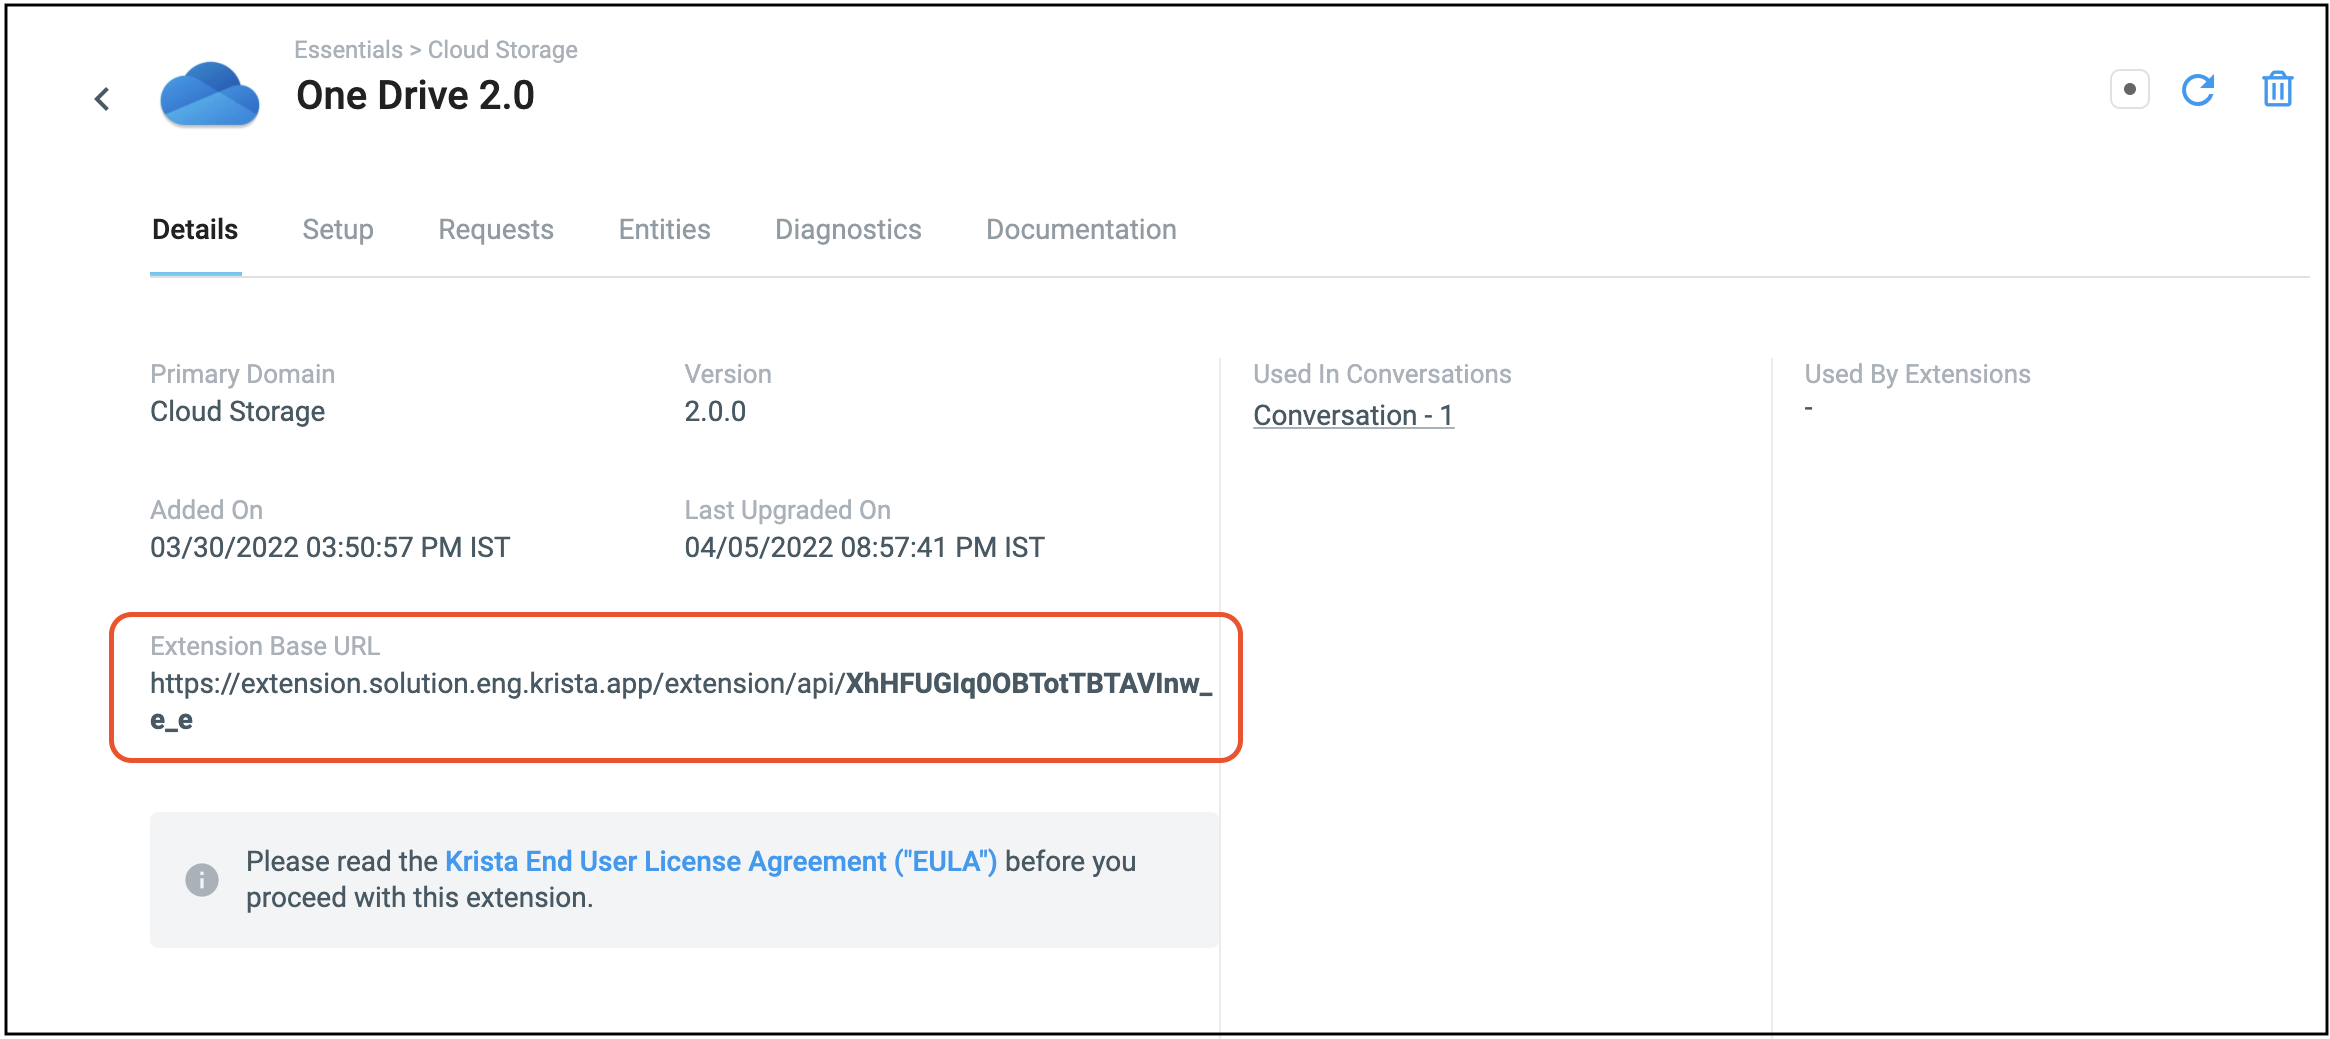
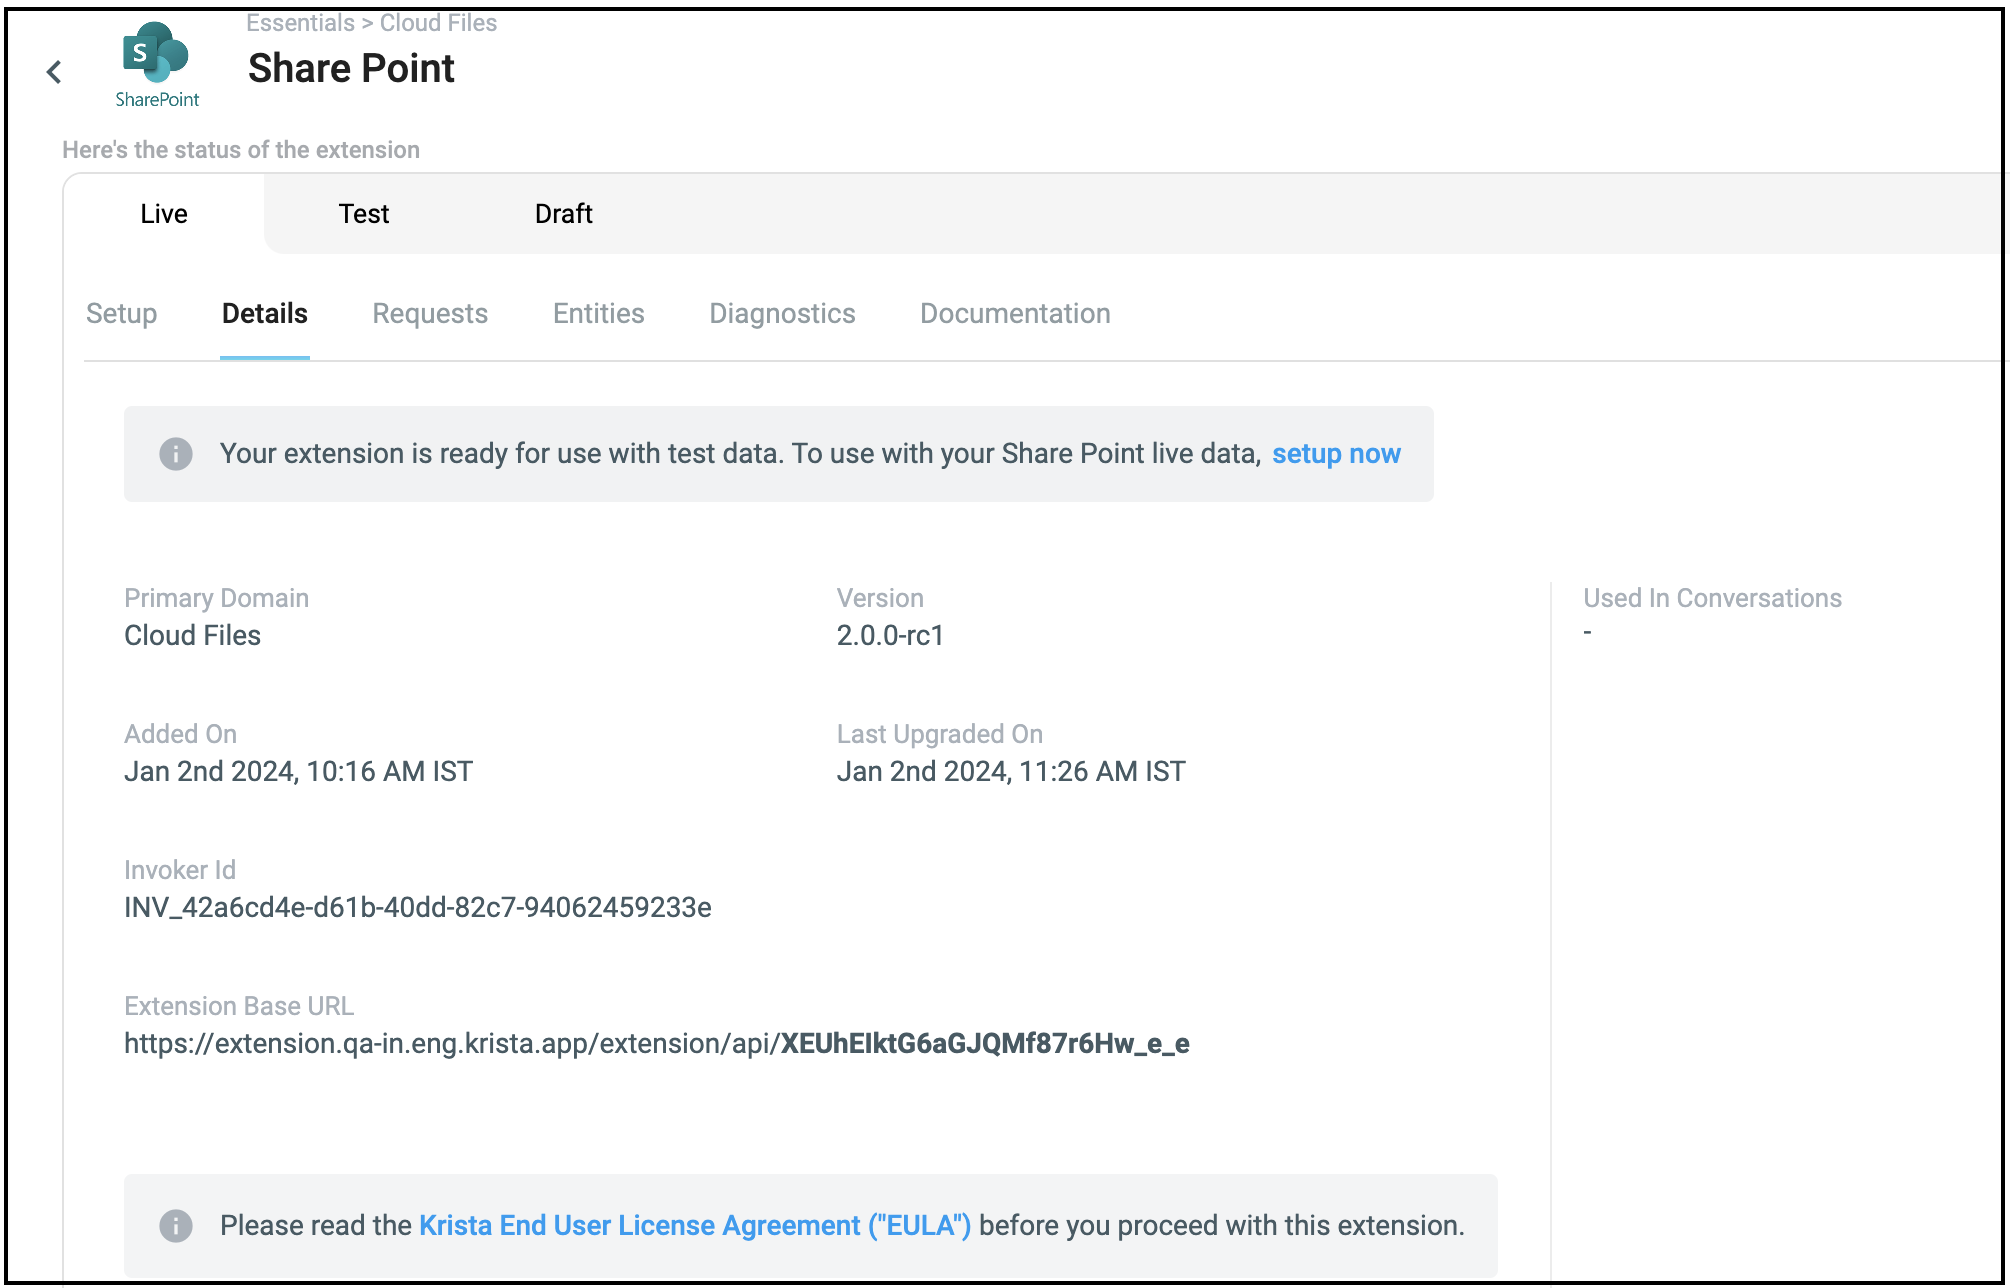
feature/sharepoint : Code Refactor

diff --git a/sharepoint/src/main/java/app/krista/extensions/essentials/cloudfiles/sharepoint/impl/FileCreateService.java b/sharepoint/src/main/java/app/krista/extensions/essentials/cloudfiles/sharepoint/impl/FileCreateService.java
@@ -9,11 +9,10 @@ import org.slf4j.Logger;
 import org.slf4j.LoggerFactory;
 
 import java.util.*;
-import java.util.List;
 
 public class FileCreateService {
 
-    private static final Logger log = LoggerFactory.getLogger(FileCreateService.class);
+    private static final Logger LOGGER = LoggerFactory.getLogger(FileCreateService.class);
 
     private final GraphServiceClient<Request> graphClient;
 
@@ -22,49 +21,50 @@ public class FileCreateService {
     }
 
     /**
-     * Creates a new group in Microsoft Graph.
+     * Creates a new group using the provided groupData map, validates the input, and performs the group creation.
      *
-     * @param map A map containing properties of the group.
-     *            - "Name": The display name of the group.
-     *            - "Base Name": The mail nickname or base name of the group.
-     *            (Additional properties can be included based on requirements.)
-     * @return A {@link GroupImpl} representing the created group.
-     * If the group is successfully created, the returned object contains the group details.
-     * If there is an error during the creation process, the returned object contains the error details.
-     * @throws IllegalArgumentException If the input map is null or missing required properties.
+     * @param groupData A map containing properties for group creation, including "Name" and "Base Name".
+     * @return A GroupImpl object representing the newly created group, or null if creation fails.
      * @see GroupImpl
+     * @see GraphServiceException
      */
     public GroupImpl createGroup(Map<String, Object> groupData) {
         try {
-            // Validate input map
-            if (groupData == null) {
-                log.error("Invalid input: groupData map is null");
-                return new GroupImpl(null, null);
+            if (!validateGroupData(groupData)) {
+                LOGGER.error("Invalid input: Missing group data or properties");
+                throw new IllegalArgumentException("Invalid input: Missing group data or properties");
             }
 
-            // Extract group properties with null checks
-            String groupName = (String) groupData.get("Name");
-            String groupBaseName = (String) groupData.get("Base Name");
-            if (groupName == null || groupBaseName == null) {
-                log.error("Invalid input: Missing group name or base name");
-                return new GroupImpl(null, null);
-            }
-
-            // Create a new group object
-            Group groupToCreate = new Group();
-            groupToCreate.displayName = groupName;
-            groupToCreate.mailNickname = groupBaseName;
-            groupToCreate.groupTypes = Collections.singletonList("Unified");
-            groupToCreate.mailEnabled = true;
-            groupToCreate.securityEnabled = false;
-
-            // Send the request to create the group
+            Group groupToCreate = buildGroup(groupData);
             Group createdGroup = graphClient.groups().buildRequest().post(groupToCreate);
 
             return new GroupImpl(createdGroup, null);
-        } catch (GraphServiceException e) {
-            log.error("Error creating group", e);
-            return new GroupImpl(null, e);
+        } catch (GraphServiceException cause) {
+            LOGGER.error("Error creating group", cause.getMessage());
+            throw new IllegalArgumentException("Error : "+cause.getMessage());
         }
     }
+
+    private boolean validateGroupData(Map<String, Object> groupData) {
+        String groupName = (String) groupData.get("Name");
+        String groupBaseName = (String) groupData.get("Base Name");
+
+        return groupData != null
+                && groupName != null && !groupName.trim().isEmpty()
+                && groupBaseName != null && !groupBaseName.trim().isEmpty()
+                && groupName.matches("[a-zA-Z0-9 ]+")  // Allow only letters, numbers, and spaces
+                && groupBaseName.matches("[a-zA-Z0-9 ]+")
+                && !groupBaseName.contains(" ");
+    }
+
+    private Group buildGroup(Map<String, Object> groupData){
+        Group groupToCreate = new Group();
+        groupToCreate.displayName = (String) groupData.get("Name");
+        groupToCreate.mailNickname = ((String) groupData.get("Base Name")).trim();
+        groupToCreate.groupTypes = Collections.singletonList("Unified");
+        groupToCreate.mailEnabled = true;
+        groupToCreate.securityEnabled = false;
+        return groupToCreate;
+    }
+
 }

diff --git a/sharepoint/src/main/java/app/krista/extensions/essentials/cloudfiles/sharepoint/impl/CopyFileDao.java b/sharepoint/src/main/java/app/krista/extensions/essentials/cloudfiles/sharepoint/impl/CopyFileDao.java
@@ -85,7 +85,7 @@ public class CopyFileDao {
 
     private boolean validateReplaceAndCreateFolderParameters(Boolean replace, Boolean createFolder, Map<String, Object> payload) {
         if (replace != null && createFolder != null && replace && createFolder) {
-            payload.put(Constants.MESSAGE, "Please Specify Whether to Replace or Create");
+            payload.put(Constants.MESSAGE, Constants.PLEASE_SPECIFY_REPLACE_OR_CREATE);
             payload.put(Constants.SUCCESS, false);
             return false;
         }
@@ -102,7 +102,7 @@ public class CopyFileDao {
         }
 
         if (!(boolean) payload.get(Constants.IS_FOLDER_EXIST)) {
-            payload.put(Constants.MESSAGE, "Provide a Valid Target Path");
+            payload.put(Constants.MESSAGE, Constants.PROVIDE_VALID_TARGET_PATH);
             payload.put(Constants.SUCCESS, false);
         }
         return driveItemTarget;
@@ -172,7 +172,7 @@ public class CopyFileDao {
                     .buildRequest().get();
 
             payload.put(Constants.FILE, CatalogTypes.fromFile(new FileImpl(driveItem, null, null)));
-            payload.put(Constants.MESSAGE, "File has been copied successfully");
+            payload.put(Constants.MESSAGE, Constants.FILE_COPIED_SUCCESSFULLY);
             payload.put(Constants.SUCCESS, true);
         } else if (statusResponse.code() == 409) {
             payload.put(Constants.MESSAGE, "A file with this name already exists. Please choose a different file name.");

diff --git a/sharepoint/src/main/java/app/krista/extensions/essentials/cloudfiles/sharepoint/catalog/ManagementArea.java b/sharepoint/src/main/java/app/krista/extensions/essentials/cloudfiles/sharepoint/catalog/ManagementArea.java
@@ -256,7 +256,7 @@ public class ManagementArea {
             description = "Produces a non-recursive list of folders that is present within the folder denoted by the source path",
             area = "Management",
             type = CatalogRequest.Type.QUERY_SYSTEM)
-    @Field.Text(name = "TaskID", required = false, attributes = {@Attribute(name = "visualWidth", value = "S")}, options = {})
+    @Field.Text(name = "Task ID", required = false, attributes = {@Attribute(name = "visualWidth", value = "S")}, options = {})
     public String listFolders(
             @Field.Text(name = "Source Path", required = true, attributes = {@Attribute(name = "visualWidth", value = "S")}, options = {}) String sourcePath,
             @Field.Text(name = "Search", required = false, attributes = {@Attribute(name = "visualWidth", value = "S")}, options = {}) String search){

diff --git a/sharepoint/src/main/java/app/krista/extensions/essentials/cloudfiles/sharepoint/util/Constants.java b/sharepoint/src/main/java/app/krista/extensions/essentials/cloudfiles/sharepoint/util/Constants.java
@@ -94,6 +94,8 @@ public class Constants {
     public static final String MODIFIED_BY = "Modified By";
     public static final String LIST_DELETED_SUCCESSFULLY = "List deleted successfully";
     public static final String UPDATED_SITE_NAME_CANNOT_BE_NULL = "Updated Site name cannot be null or empty";
+    public static final String PLEASE_SPECIFY_REPLACE_OR_CREATE = "Please Specify Whether to Replace or Create";
+    public static final String FILE_COPIED_SUCCESSFULLY = "File has been copied successfully";
 
     private Constants() {
     }

diff --git a/sharepoint/src/main/java/app/krista/extensions/essentials/cloudfiles/sharepoint/impl/GroupImpl.java b/sharepoint/src/main/java/app/krista/extensions/essentials/cloudfiles/sharepoint/impl/GroupImpl.java
@@ -12,9 +12,9 @@ public class GroupImpl implements FileService {
 
     private final Group group;
 
-    private final GraphServiceException exception;
+    private final Exception exception;
 
-    public GroupImpl(Group group, GraphServiceException exception) {
+    public GroupImpl(Group group, Exception exception) {
         this.group = group;
         this.exception = exception;
     }

diff --git a/sharepoint/src/main/java/app/krista/extensions/essentials/cloudfiles/sharepoint/impl/CopyFileUtilityService.java b/sharepoint/src/main/java/app/krista/extensions/essentials/cloudfiles/sharepoint/impl/CopyFileUtilityService.java
@@ -122,4 +122,6 @@ public class CopyFileUtilityService {
         return payload;
     }
 
+
+
 }

diff --git a/sharepoint/src/main/resources/docs/pages/obtainingClientIDClientSecret.md b/sharepoint/src/main/resources/docs/pages/obtainingClientIDClientSecret.md
@@ -1,7 +1,7 @@
 # Obtaining Client ID, Tenant ID, and Client Secret
 
 
-* For the SharePoint Extension, you would need to obtain Client ID, Tenant ID, and Client Secret from the Azure Portal.
+For the SharePoint Extension, you would need to obtain Client ID, Tenant ID, and Client Secret from the Azure Portal.
 
 
 ### Steps to get Client ID, Tenant ID, and Client Secret
@@ -23,7 +23,7 @@
 
 
 * **Register an application** page is displayed. Enter the relevant details on this application page. Enter the **Name** that would be display name. Select the **Supported account types**. Out of the available options, select accounts in the single tenant only (first option). Under Redirect URI, select the Web platform. Add the authorized redirect URI corresponding to your SharePoint extension. Click **Register**.
-  * Go to the Details page of the extension and copy the Routing id from there. After that, append **"/rest/sharepoint/callback"** at the end of the routing id (This is you redirect uri). Now add this uri in Authorized redirect uri in credentials of your registered app in azure portal.
+  * Go to the Details page of the extension and copy the Routing id from there. After that, append **"/rest/sharepoint/callback"** at the end of the routing id (This is you redirect URI). Now add this URI in Authorized redirect URI in credentials of your registered app in azure portal.
       ![Routing Id Reference](../_media/routing_id.png)
       ![Register](../_media/register.png)
 
@@ -54,11 +54,11 @@
   ![Select Permission](../_media/selectPermissions.png)
 
 
-* Click **Certificates & secrets**, go to and click **New client secret**.
+* Select **Certificates & secrets**, go to **Client secrets** tab, and click **New client secret**.
   ![Certificates & Secrets](../_media/certificates&Secrets.png)
 
 
-* On the **Add a client secret panel**, enter the **Description**, and set up the time span of expiry in the **Expires** field. Click **Add**.
+* On the **Add a client secret** panel, enter the **Description**, and set up the time span of expiry in the **Expires** field. Click **Add**.
   ![Add Client Secret](../_media/addClientSecret.png)
 
 

diff --git a/sharepoint/src/main/resources/docs/pages/connectingWithSharePointExtension.md b/sharepoint/src/main/resources/docs/pages/connectingWithSharePointExtension.md
@@ -1,4 +1,4 @@
-# Connecting with SharePoint Extension
+# Configuring SharePoint Extension in Krista
 
 ### Steps for connection
 
@@ -13,7 +13,7 @@
 
 
 * To authorize yourself you are required to follow these steps:
-   * Go to the Details page of the extension and copy the Routing id from there. After that, append **"/rest/sharepoint/callback"** at the end of the routing id (This is you redirect uri). Now add this uri in Authorized redirect uri in credentials of your registered app in azure portal.
+   * Go to the Details page of the extension and copy the Routing id from there. After that, append **"/rest/sharepoint/callback"** at the end of the routing id (This is you redirect URI). Now add this URI in Authorized redirect URI in credentials of your registered app in azure portal.
      ![Routing Id Reference](../_media/routing_id.png)
      ![Authorized redirect uri Reference](../_media/redirectUrl.png)
    * Run one of the request of the extension through conversation in the client. Once you run the request in the client, an authentication will appear. Click on that tab and authorize yourself using the same account which is used to register your application in azure portal.
@@ -23,3 +23,23 @@
 
 
 * After the connection is established, you are good to go with the requests of the extension.
+
+
+### Setup SharePoint extension
+
+
+* Adding SharePoint extension
+  * Catalogs > Essentials > Cloud Files > SharePoint    
+    ![SetupPage](../_media/setup1.jpg)
+
+
+* Add SharePoint extension by clicking on **Add to Workspace**
+  * Setup Share Point > **Name** > Save  
+    ![SetupPage](../_media/setup2.jpg)
+
+
+* Now you can use this same Client id , Client secret, Tenant id and Email as Setup Parameters in Setup Page and Click on Validate Attributes.
+  ![SetupPage](../_media/setup3.jpg)
+
+
+

diff --git a/sharepoint/src/main/resources/docs/pages/supportedRequest.md b/sharepoint/src/main/resources/docs/pages/supportedRequest.md
@@ -218,10 +218,10 @@ Krista SharePoint extension supports the following Catalog Requests:
 - **Description**: Renames the file given at the Source File Path to the name Given.
 - **Input Parameters**:
 
-| **Parameter Name** | **Parameter Type** | **Mandatory**                          | **Example**   |
-|--------------------|--------------------|----------------------------------------|---------------|
-| File               | Entity             | {name : "ABC", extension:".txt" , ...} |
-| Target File Name   | Text               | Yes                                    | NewExcel.xlsx |
+| **Parameter Name** | **Parameter Type** | **Mandatory**                          | **Example**              |
+|--------------------|--------------------|----------------------------------------|--------------------------|
+| File               | Entity             | {name : "ABC", extension:".txt" , ...} | {name : "NewSheet.xlsx"} |
+| Target File Name   | Text               | Yes                                    | NewExcel.xlsx            |
 
 - **Output**:
 
@@ -230,7 +230,6 @@ Krista SharePoint extension supports the following Catalog Requests:
   | File               | Entity             | {name : "ABC", extension:".txt" , ...} |
   | Message            | Text               | " "                                    |
   | Success            | Yes/No             | Yes                                    |
-- 
 
 #### Share File
 

diff --git a/sharepoint/src/main/resources/docs/pages/overview.md b/sharepoint/src/main/resources/docs/pages/overview.md
@@ -1,9 +1,9 @@
-### Overview
+# Overview
 
-* The Krista Microsoft SharePoint extension connects to Microsoft SharePoint and performs various operations.
+* The Krista extension for Microsoft SharePoint makes Krista work together with Microsoft SharePoint and helps perform different tasks and operations.
 * The Krista SharePoint extension is a collaboration offering.
 
 
 ### Prerequisite
 
-* You must have the appropriate access and privileges to obtain the Client ID and Client Secret.
+* You must have the appropriate access and privileges to obtain the Client ID and Client Secret from the Azure Portal.

diff --git a/sharepoint/src/main/resources/docs/README.md b/sharepoint/src/main/resources/docs/README.md
@@ -9,7 +9,7 @@ The Krista Microsoft SharePoint extension connects to **Microsoft SharePoint** a
 
 * [Obtaining Client ID, Tenant ID, and Client Secret](pages/obtainingClientIDClientSecret.md)
 
-* [Connecting with SharePoint Extension](pages/connectingWithSharePointExtension.md)
+* [Configuring SharePoint Extension in Krista](pages/connectingWithSharePointExtension.md)
 
 * [Supported Requests](pages/supportedRequest.md)
 

diff --git a/sharepoint/src/main/resources/docs/_sidebar.md b/sharepoint/src/main/resources/docs/_sidebar.md
@@ -6,7 +6,7 @@
 
 * [Obtaining Client ID, Tenant ID, and Client Secret](pages/obtainingClientIDClientSecret.md)
 
-* [Connecting with SharePoint Extension](pages/connectingWithSharePointExtension.md)
+* [Configuring SharePoint Extension in Krista](pages/connectingWithSharePointExtension.md)
 
 * [Supported Requests](pages/supportedRequest.md)
 
